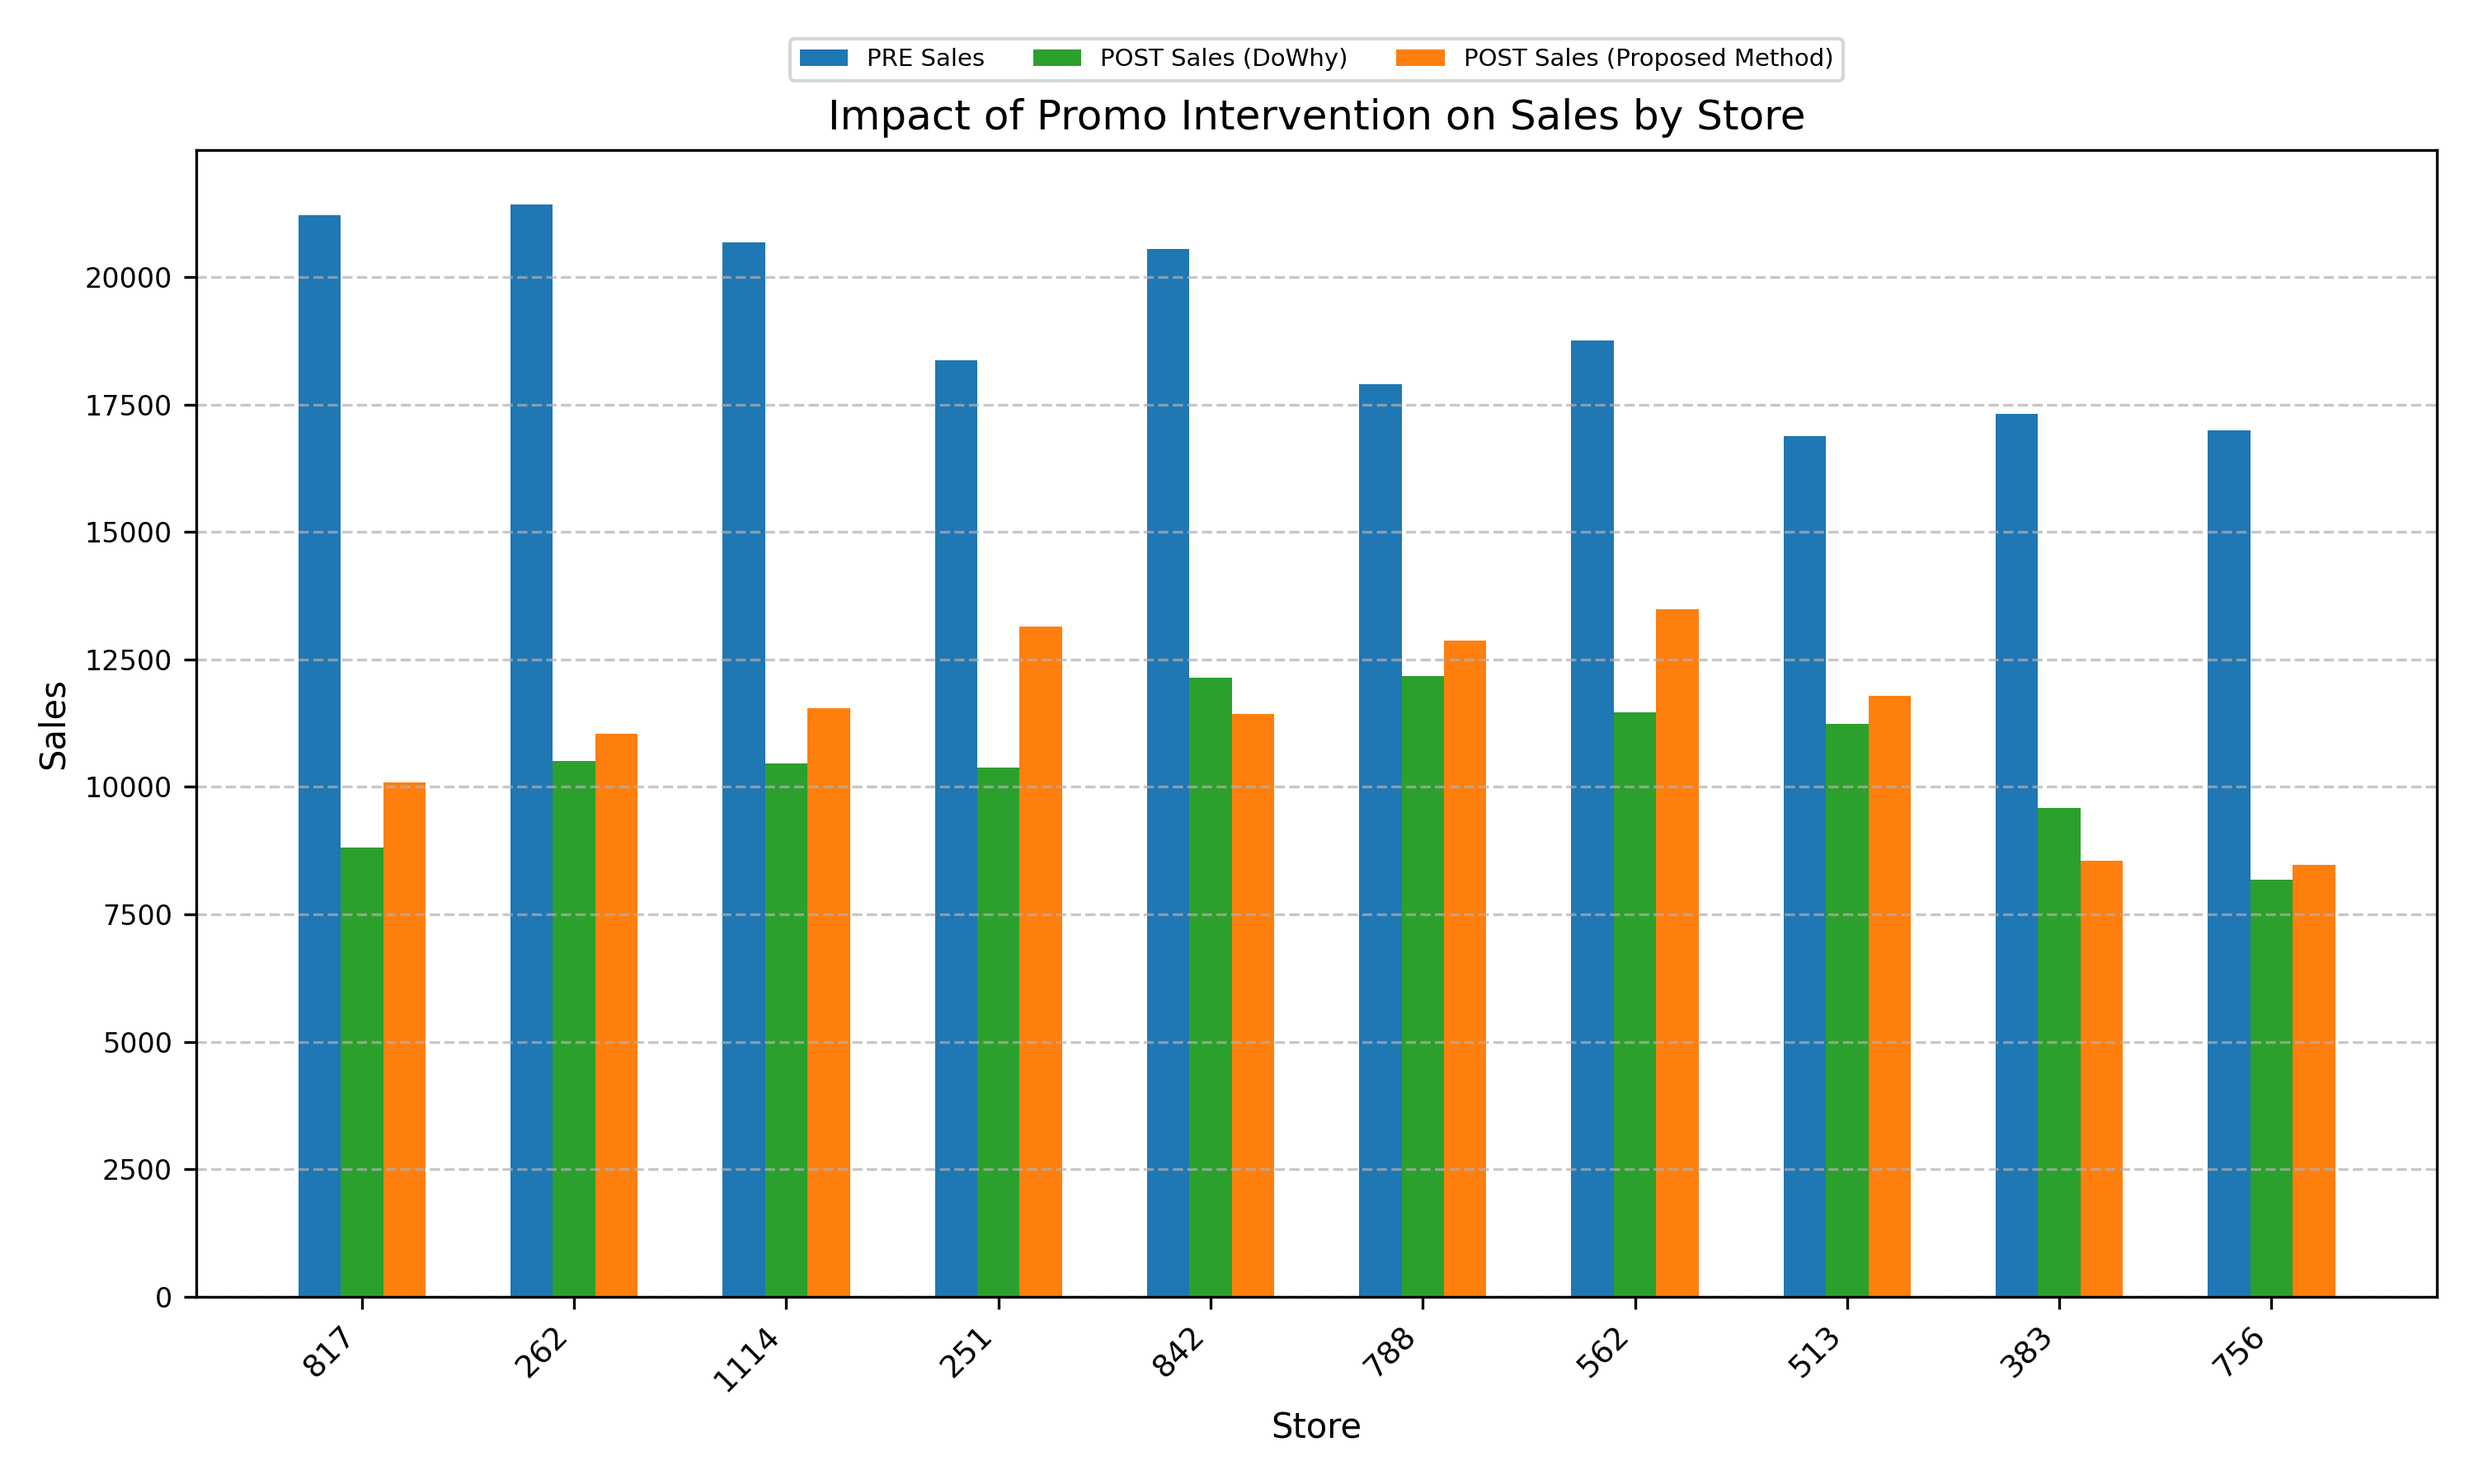
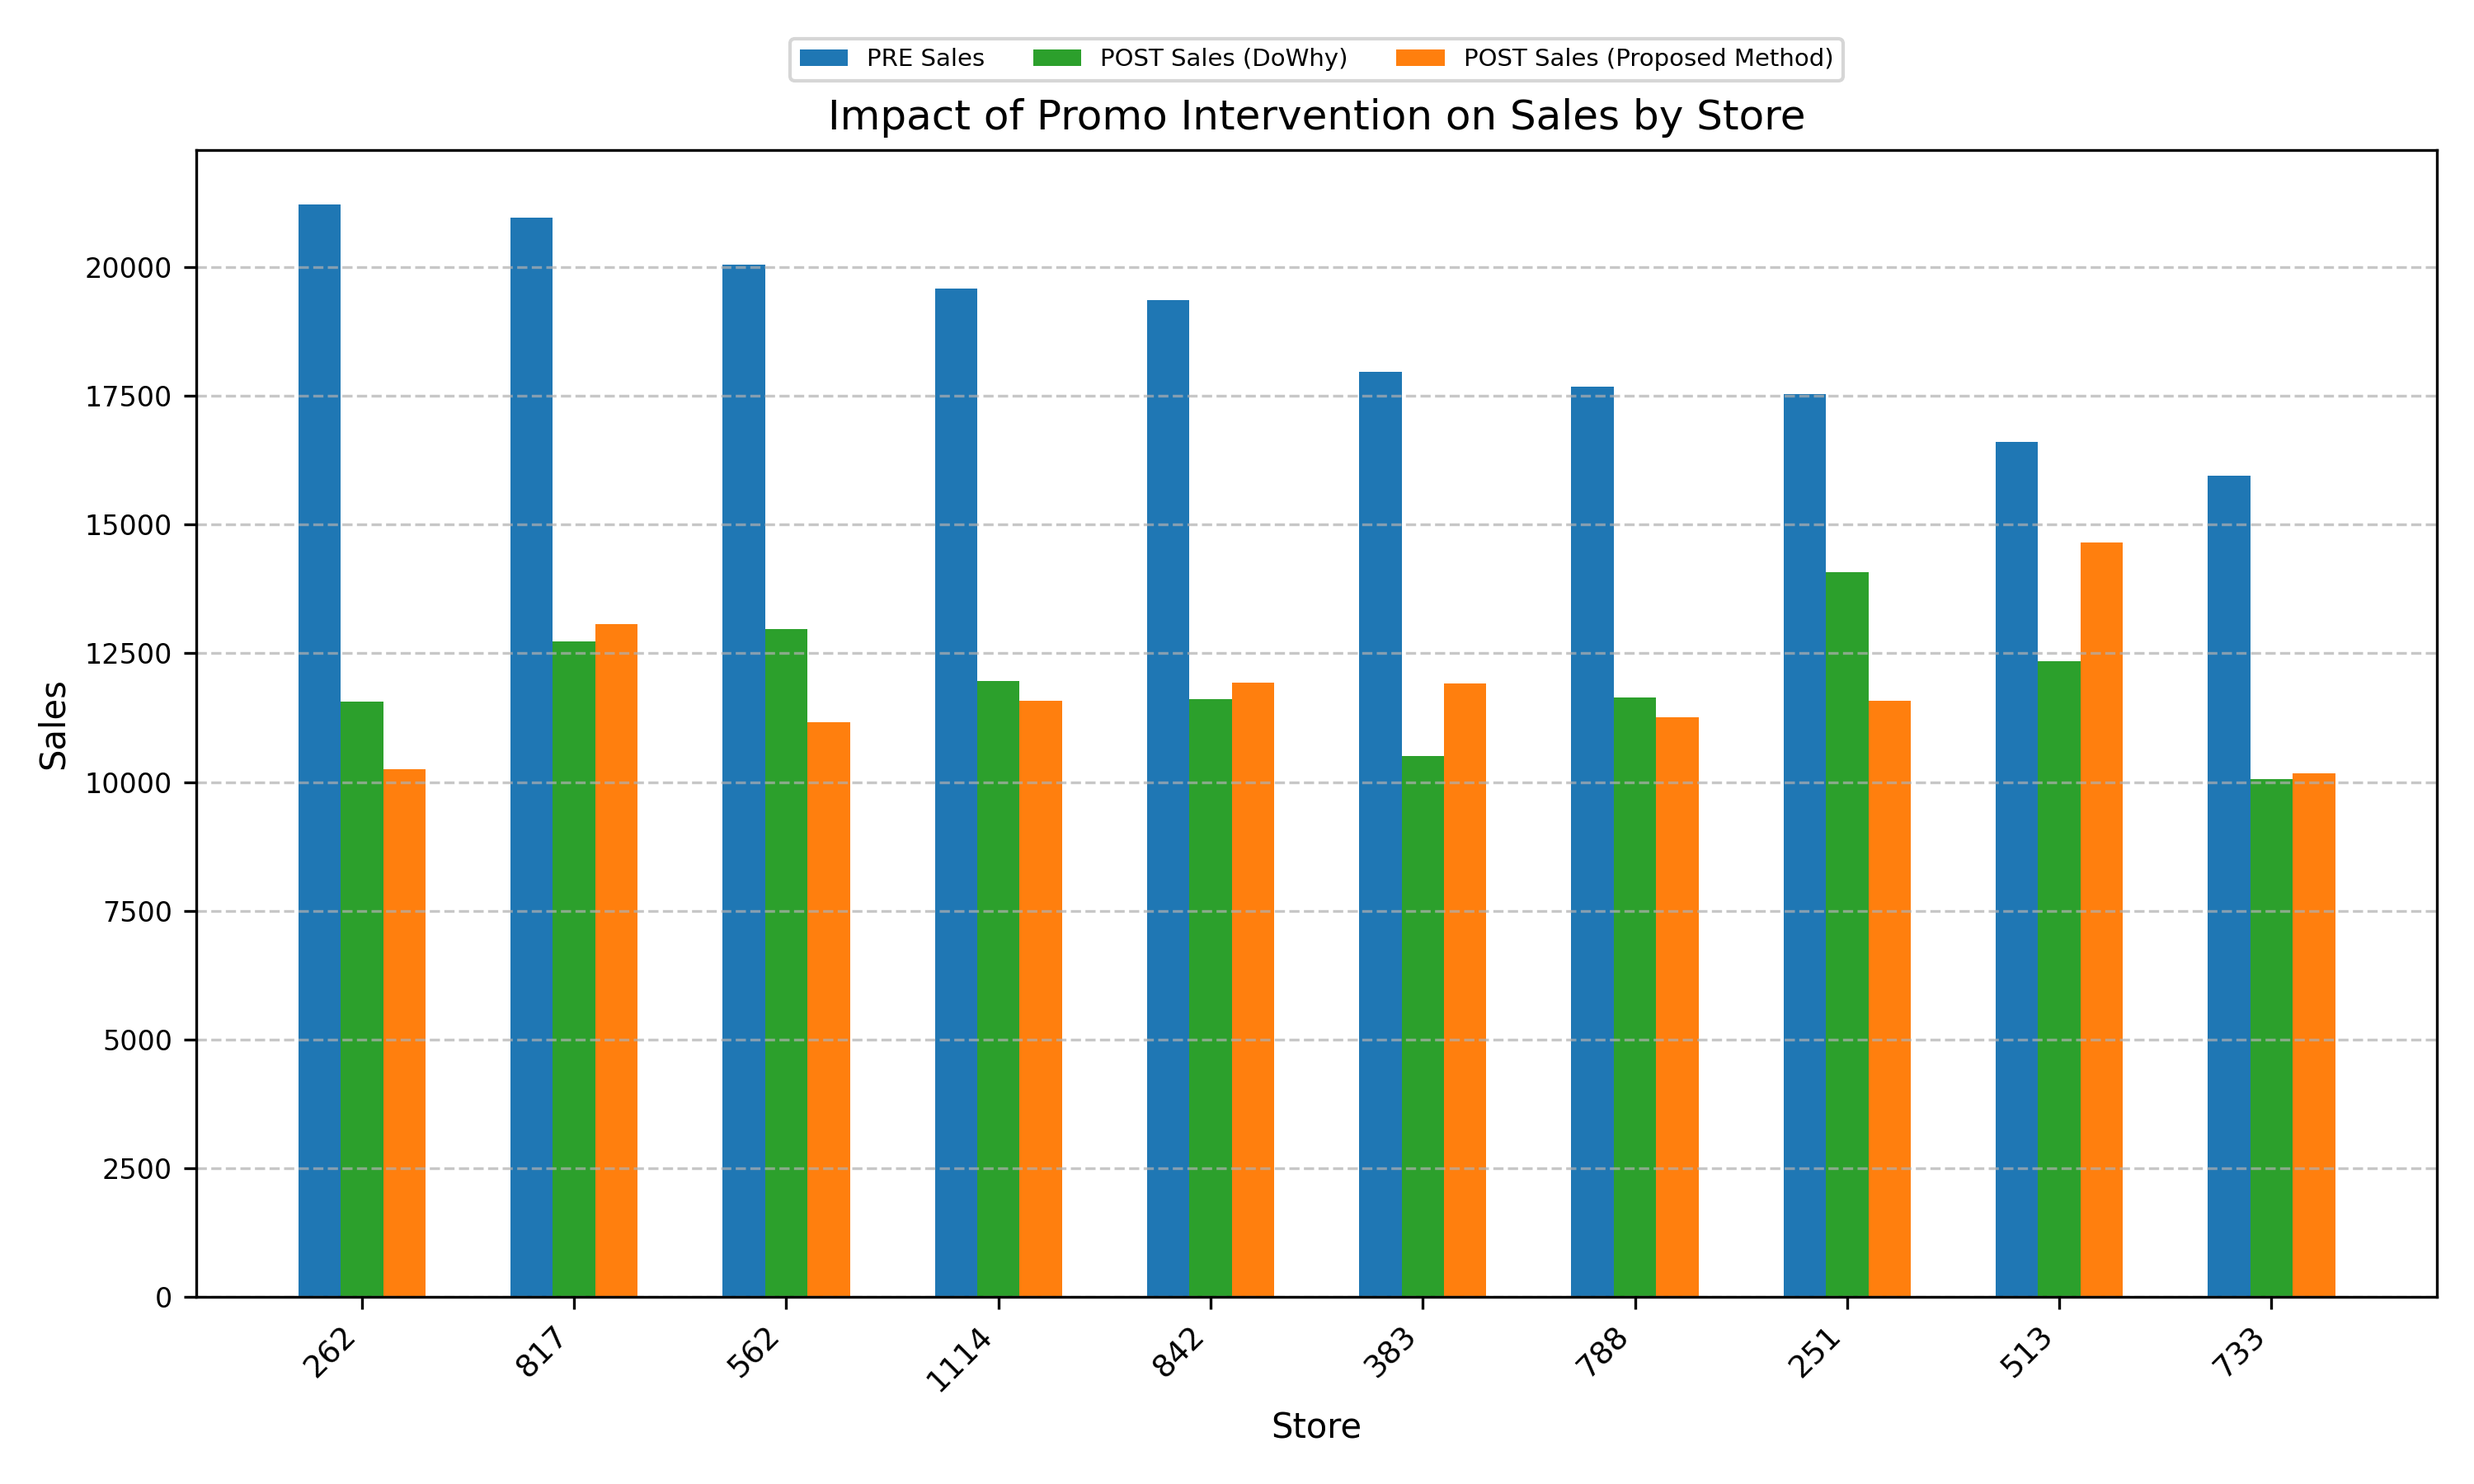
show results with significant differences

diff --git a/rossmann.py b/rossmann.py
@@ -38,6 +38,7 @@ def paired_ttest(df, attr):
         significant_results = results_df[results_df['p_value'] < 0.05]
         print("\n有意な差が検出された Store:")
         print(significant_results)
+        return significant_results["Store"].tolist()
     else:
         print("\n有意な差は検出されませんでした（データ不足の可能性あり）")
 
@@ -54,7 +55,7 @@ df = df[(df['Open'] == 1) & (df['Sales'] > 0)].copy()
 if 'Date' in df.columns:
     df['Date'] = pd.to_datetime(df['Date'])
     # 例として2015年7月のデータを抽出
-    df = df[df['Date'].dt.strftime('%Y') == '2014']  # Commented out to include all data
+    df = df[df['Date'].dt.strftime('%Y-%m') == '2014-02']  # Commented out to include all data
     # 文字列に戻す（カテゴリ変数として扱うため）
     df['Date'] = df['Date'].astype(str)
 
@@ -72,7 +73,7 @@ print(f"Data Shape: {df.shape}")
 
 
 # 分析対象の設定
-target_day = 5 # 金曜日 (Amazonでのカテゴリ選択に相当)
+target_day = 5 # 金曜日
 print(f"Intervention Target DayOfWeek: {target_day} (Friday)")
 
 
@@ -80,6 +81,8 @@ print(f"Intervention Target DayOfWeek: {target_day} (Friday)")
 # Calculate average sales for each store and select the top store
 store_avg_sales = df.groupby('Store')['Sales'].mean()
 top_store = store_avg_sales.idxmax()
+print(f"Top Store by Average Sales: {top_store}")
+print(f"Intervention Condition Hit Count: {df[(df['DayOfWeek'] == target_day) & (df['Store'] == top_store)].shape[0]}")
 
 # Filter data to include only the top store
 top_store_data = df[df['Store'] == top_store]
@@ -127,7 +130,7 @@ valid_stores = group_counts[group_counts >= 1].index
 filtered_conv = convresult[convresult["Store"].isin(valid_stores)]
 
 print(f"従来手法に対するt検定")
-paired_ttest(filtered_conv, result_val)
+sig_neighbourhoods_conv = paired_ttest(filtered_conv, result_val)
 
 groupby_convresult = filtered_conv.groupby(['Store'])[['Promo', 'POST_Promo', 'Sales', 'POST_Sales']].mean()
 
@@ -174,10 +177,17 @@ proresult = proresult[proresult['DayOfWeek'] == target_day]
 # データの絞り込み
 filtered_pro = proresult[proresult["Store"].isin(valid_stores)]
 print(f"提案手法に対するt検定")
-paired_ttest(filtered_pro, result_val)
+sig_neighbourhoods_pro = paired_ttest(filtered_pro, result_val)
 
-groupby_proresult = filtered_pro.groupby(['Store'])[['Promo', 'POST_Promo', 'Sales', 'POST_Sales']].mean()
+groupby_proresult = filtered_pro.groupby(["Store"])[["Promo", "POST_Promo", "Sales", "POST_Sales"]].mean()
 
+qualified_neighbourhoods = list(set(sig_neighbourhoods_conv) | set(sig_neighbourhoods_pro))
+groupby_proresult_filtered = groupby_proresult[
+    groupby_proresult.index.get_level_values("Store").isin(sig_neighbourhoods_pro)
+]
+groupby_convresult_filtered = groupby_convresult[
+    groupby_convresult.index.get_level_values("Store").isin(sig_neighbourhoods_pro)
+]
 
 # グラフ作成
 # フォントサイズを設定
@@ -192,9 +202,9 @@ rcParams.update({
 })
 
 # 売上規模が大きい上位10店舗を表示
-top_stores = df.groupby('Store')['Sales'].mean().sort_values(ascending=False).head(10).index
-groupby_proresult_plot = groupby_proresult.loc[top_stores]
-groupby_convresult_plot = groupby_convresult.loc[top_stores]
+groupby_proresult_plot = groupby_proresult_filtered.sort_values(by="Sales", ascending=False).head(10)
+final_target_stores = groupby_proresult_plot.index
+groupby_convresult_plot = groupby_convresult_filtered.loc[final_target_stores]
 
 stores_label = groupby_proresult_plot.index # 店舗名
 x = np.arange(len(stores_label))
@@ -229,9 +239,13 @@ plt.close()
 
 
 # 結果の表示
-print(f"更新前：\n{pre_result.head(10)}")
-print(f"更新後（DoWhy）：\n{post_convresult.head(10)}")
-print(f"更新後（提案手法）：\n{post_proresult.head(10)}")
+post_convresult_ttest = groupby_convresult_filtered.sort_values(by="Sales", ascending=False).head(10)[
+    f"POST_{result_val}"
+]
+print(f"更新前：\n{pre_result}")
+print(f"更新後（DoWhy）：\n{post_convresult}")
+print(f"更新後（提案手法）：\n{post_proresult}")
+print(f"更新後（DoWhy）T-test：\n{post_convresult_ttest}")
 
 # 実行時間の表示
 print(f"************************\n提案手法の実行時間\n************************\n")
